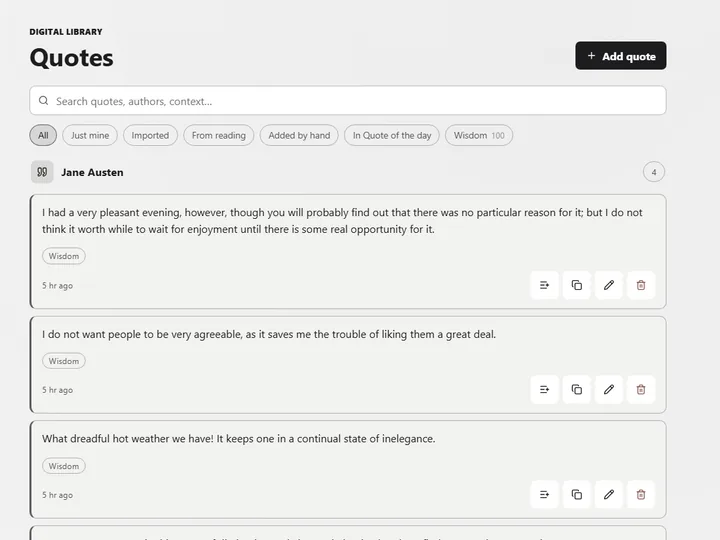
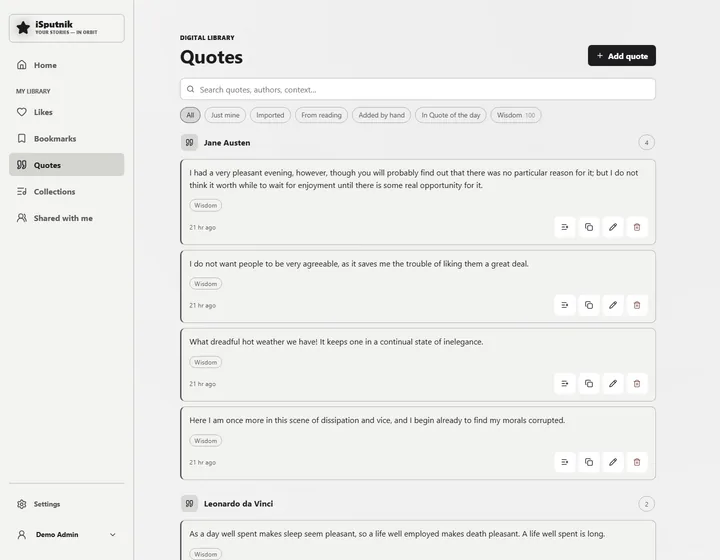
Index pages captured as the whole app window
The Gallery timeline, gallery view, People, Map, Albums, the family tree and
Quotes join the two shelves: full window at 1440x1120, left navigation in
frame. A strip of these now reads as one product rather than a set of
unrelated crops.

Two of them stop being dark. The map and the family tree read well in the
night theme while they were cropped to the map and the chart themselves, but
a dark app window sitting beside five light ones in the same strip is just a
mismatch, so both are Minimalist now and lose the -dark suffix.

The timeline shot backs off its scroll a little so the tail of the previous
day shows: the point of that picture is that photos arrive in dated sections,
which a single section alone would not say.

diff --git a/index.html b/index.html
@@ -188,7 +188,7 @@
               <figure class="viewer-stage">
                 <img
                   src="Assets/screenshots/gallery-timeline-720.webp"
-                  srcset="Assets/screenshots/gallery-timeline-720.webp 720w, Assets/screenshots/gallery-timeline-1076.webp 1076w"
+                  srcset="Assets/screenshots/gallery-timeline-720.webp 720w, Assets/screenshots/gallery-timeline-1080.webp 1080w"
                   sizes="(min-width: 960px) 700px, calc(100vw - 40px)"
                   width="1076" height="807" loading="lazy" decoding="async"
                   alt="The gallery timeline: a day's photographs in a grid under its date"
@@ -205,7 +205,7 @@
               <figure class="viewer-stage">
                 <img
                   src="Assets/screenshots/gallery-grid-720.webp"
-                  srcset="Assets/screenshots/gallery-grid-720.webp 720w, Assets/screenshots/gallery-grid-1076.webp 1076w"
+                  srcset="Assets/screenshots/gallery-grid-720.webp 720w, Assets/screenshots/gallery-grid-1080.webp 1080w"
                   sizes="(min-width: 960px) 700px, calc(100vw - 40px)"
                   width="1076" height="807" loading="lazy" decoding="async"
                   alt="The gallery as one continuous grid of small tiles, with no dated sections"
@@ -222,7 +222,7 @@
               <figure class="viewer-stage">
                 <img
                   src="Assets/screenshots/gallery-people-720.webp"
-                  srcset="Assets/screenshots/gallery-people-720.webp 720w, Assets/screenshots/gallery-people-1076.webp 1076w"
+                  srcset="Assets/screenshots/gallery-people-720.webp 720w, Assets/screenshots/gallery-people-1080.webp 1080w"
                   sizes="(min-width: 960px) 700px, calc(100vw - 40px)"
                   width="1076" height="807" loading="lazy" decoding="async"
                   alt="The People page: named people in a row, each with a face crop and a photo count, then the unnamed groups"
@@ -238,8 +238,8 @@
             <li class="viewer-item" id="gallery-4" role="tabpanel" aria-labelledby="gallery-tab-4" hidden>
               <figure class="viewer-stage">
                 <img
-                  src="Assets/screenshots/gallery-map-dark-720.webp"
-                  srcset="Assets/screenshots/gallery-map-dark-720.webp 720w, Assets/screenshots/gallery-map-dark-1076.webp 1076w"
+                  src="Assets/screenshots/gallery-map-720.webp"
+                  srcset="Assets/screenshots/gallery-map-720.webp 720w, Assets/screenshots/gallery-map-1080.webp 1080w"
                   sizes="(min-width: 960px) 700px, calc(100vw - 40px)"
                   width="1076" height="807" loading="lazy" decoding="async"
                   alt="A world map with numbered clusters showing how many photos were taken in each place"
@@ -256,7 +256,7 @@
               <figure class="viewer-stage">
                 <img
                   src="Assets/screenshots/gallery-album-720.webp"
-                  srcset="Assets/screenshots/gallery-album-720.webp 720w, Assets/screenshots/gallery-album-1076.webp 1076w"
+                  srcset="Assets/screenshots/gallery-album-720.webp 720w, Assets/screenshots/gallery-album-1080.webp 1080w"
                   sizes="(min-width: 960px) 700px, calc(100vw - 40px)"
                   width="1076" height="807" loading="lazy" decoding="async"
                   alt="An album called Sunday dinner, June 2025: a grid of photographs of food and the table"
@@ -289,23 +289,23 @@
           </ul>
           <div class="viewer-thumbs" role="tablist" aria-label="Gallery features">
             <button type="button" class="viewer-thumb" role="tab" id="gallery-tab-1" aria-controls="gallery-1" aria-selected="true">
-              <img src="Assets/screenshots/gallery-timeline-720.webp" width="1076" height="807" loading="lazy" decoding="async" alt="">
+              <img src="Assets/screenshots/gallery-timeline-720.webp" width="1080" height="840" loading="lazy" decoding="async" alt="">
               <span>Timeline</span>
             </button>
             <button type="button" class="viewer-thumb" role="tab" id="gallery-tab-2" aria-controls="gallery-2" aria-selected="false">
-              <img src="Assets/screenshots/gallery-grid-720.webp" width="1076" height="807" loading="lazy" decoding="async" alt="">
+              <img src="Assets/screenshots/gallery-grid-720.webp" width="1080" height="840" loading="lazy" decoding="async" alt="">
               <span>Gallery view</span>
             </button>
             <button type="button" class="viewer-thumb" role="tab" id="gallery-tab-3" aria-controls="gallery-3" aria-selected="false">
-              <img src="Assets/screenshots/gallery-people-720.webp" width="1076" height="807" loading="lazy" decoding="async" alt="">
+              <img src="Assets/screenshots/gallery-people-720.webp" width="1080" height="840" loading="lazy" decoding="async" alt="">
               <span>People</span>
             </button>
             <button type="button" class="viewer-thumb" role="tab" id="gallery-tab-4" aria-controls="gallery-4" aria-selected="false">
-              <img src="Assets/screenshots/gallery-map-dark-720.webp" width="1076" height="807" loading="lazy" decoding="async" alt="">
+              <img src="Assets/screenshots/gallery-map-720.webp" width="1080" height="840" loading="lazy" decoding="async" alt="">
               <span>Map</span>
             </button>
             <button type="button" class="viewer-thumb" role="tab" id="gallery-tab-5" aria-controls="gallery-5" aria-selected="false">
-              <img src="Assets/screenshots/gallery-album-720.webp" width="1076" height="807" loading="lazy" decoding="async" alt="">
+              <img src="Assets/screenshots/gallery-album-720.webp" width="1080" height="840" loading="lazy" decoding="async" alt="">
               <span>Albums and slideshows</span>
             </button>
             <button type="button" class="viewer-thumb" role="tab" id="gallery-tab-6" aria-controls="gallery-6" aria-selected="false">
@@ -344,8 +344,8 @@
             <li class="viewer-item" id="stories-2" role="tabpanel" aria-labelledby="stories-tab-2" hidden>
               <figure class="viewer-stage">
                 <img
-                  src="Assets/screenshots/family-tree-dark-720.webp"
-                  srcset="Assets/screenshots/family-tree-dark-720.webp 720w, Assets/screenshots/family-tree-dark-1076.webp 1076w"
+                  src="Assets/screenshots/family-tree-720.webp"
+                  srcset="Assets/screenshots/family-tree-720.webp 720w, Assets/screenshots/family-tree-1080.webp 1080w"
                   sizes="(min-width: 960px) 700px, calc(100vw - 40px)"
                   width="1076" height="807" loading="lazy" decoding="async"
                   alt="A family tree chart across four generations, with partners side by side and children beneath them"
@@ -379,7 +379,7 @@
               <figure class="viewer-stage">
                 <img
                   src="Assets/screenshots/quotes-720.webp"
-                  srcset="Assets/screenshots/quotes-720.webp 720w, Assets/screenshots/quotes-1076.webp 1076w"
+                  srcset="Assets/screenshots/quotes-720.webp 720w, Assets/screenshots/quotes-1080.webp 1080w"
                   sizes="(min-width: 960px) 700px, calc(100vw - 40px)"
                   width="1076" height="807" loading="lazy" decoding="async"
                   alt="The Quotes page: a search box, filters, and quotes by Jane Austen with their tags"
@@ -399,7 +399,7 @@
               <span>Stories</span>
             </button>
             <button type="button" class="viewer-thumb" role="tab" id="stories-tab-2" aria-controls="stories-2" aria-selected="false">
-              <img src="Assets/screenshots/family-tree-dark-720.webp" width="1076" height="807" loading="lazy" decoding="async" alt="">
+              <img src="Assets/screenshots/family-tree-720.webp" width="1080" height="840" loading="lazy" decoding="async" alt="">
               <span>Family tree</span>
             </button>
             <button type="button" class="viewer-thumb" role="tab" id="stories-tab-3" aria-controls="stories-3" aria-selected="false">
@@ -407,7 +407,7 @@
               <span>A profile for everyone</span>
             </button>
             <button type="button" class="viewer-thumb" role="tab" id="stories-tab-4" aria-controls="stories-4" aria-selected="false">
-              <img src="Assets/screenshots/quotes-720.webp" width="1076" height="807" loading="lazy" decoding="async" alt="">
+              <img src="Assets/screenshots/quotes-720.webp" width="1080" height="840" loading="lazy" decoding="async" alt="">
               <span>Quotes</span>
             </button>
           </div>
@@ -572,16 +572,16 @@
           title: "Every photo, sorted by itself",
           subtitle: "Your photos and videos, gathered in one home.",
           shots: [
-            ["gallery-timeline-1076", "Timeline", "Revisit your memories through the years."],
-            ["gallery-album-1076", "Albums", "Keep the moments that belong together."],
-            ["gallery-people-1076", "People", "Find the familiar faces in your photos."]
+            ["gallery-timeline-1080", "Timeline", "Revisit your memories through the years."],
+            ["gallery-album-1080", "Albums", "Keep the moments that belong together."],
+            ["gallery-people-1080", "People", "Find the familiar faces in your photos."]
           ]
         },
         family: {
           title: "Your family, connected",
           subtitle: "Keep your family history close.",
           shots: [
-            ["family-tree-dark-1076", "Family Tree", "See the connections across generations."],
+            ["family-tree-1080", "Family Tree", "See the connections across generations."],
             ["family-person-1076", "A page for everyone", "Bring your family's stories together."]
           ]
         },
